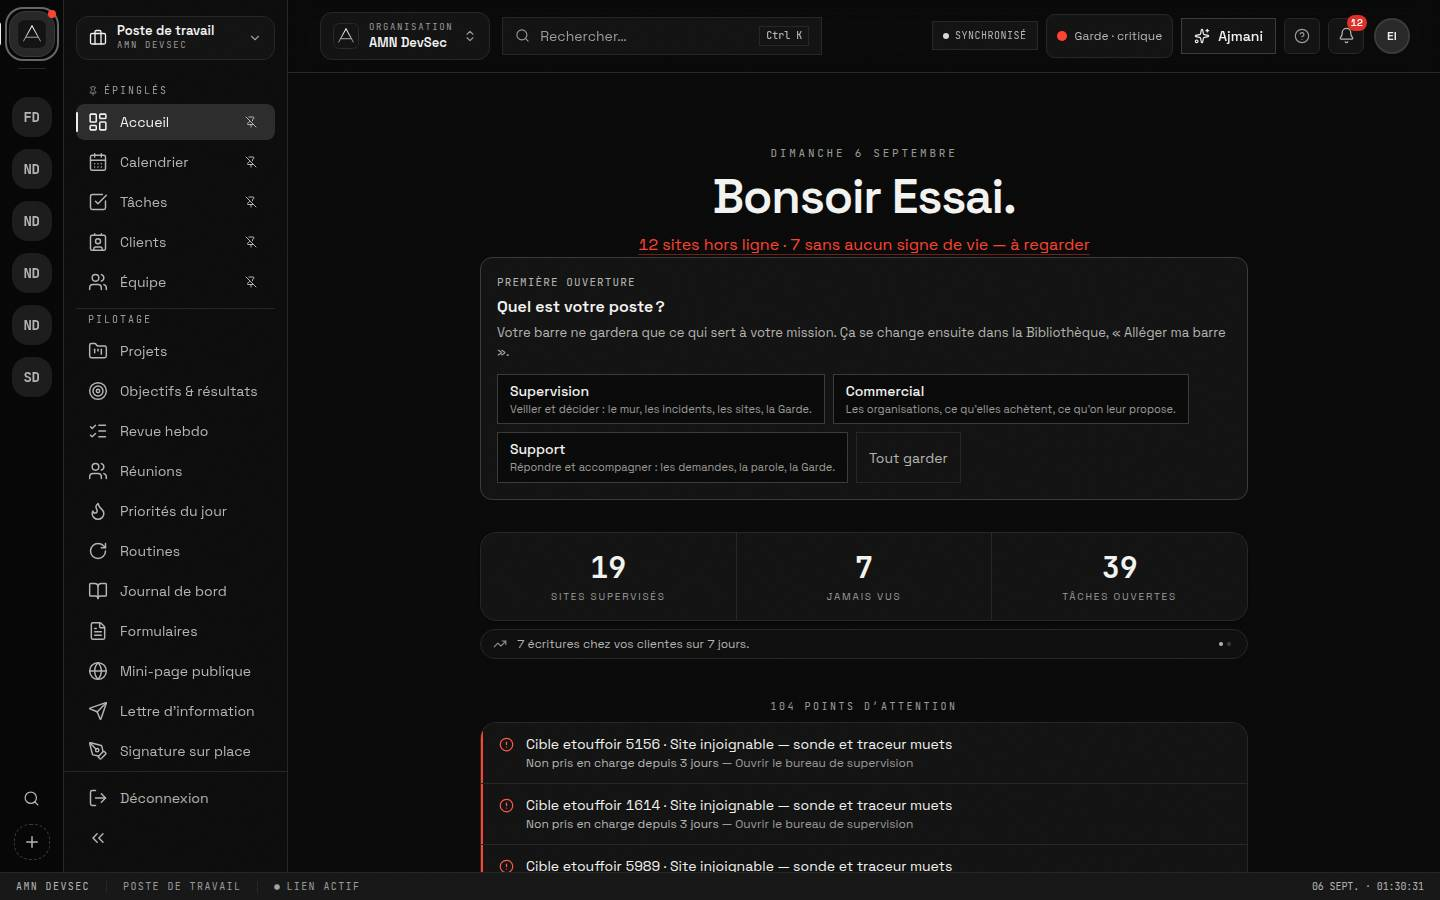
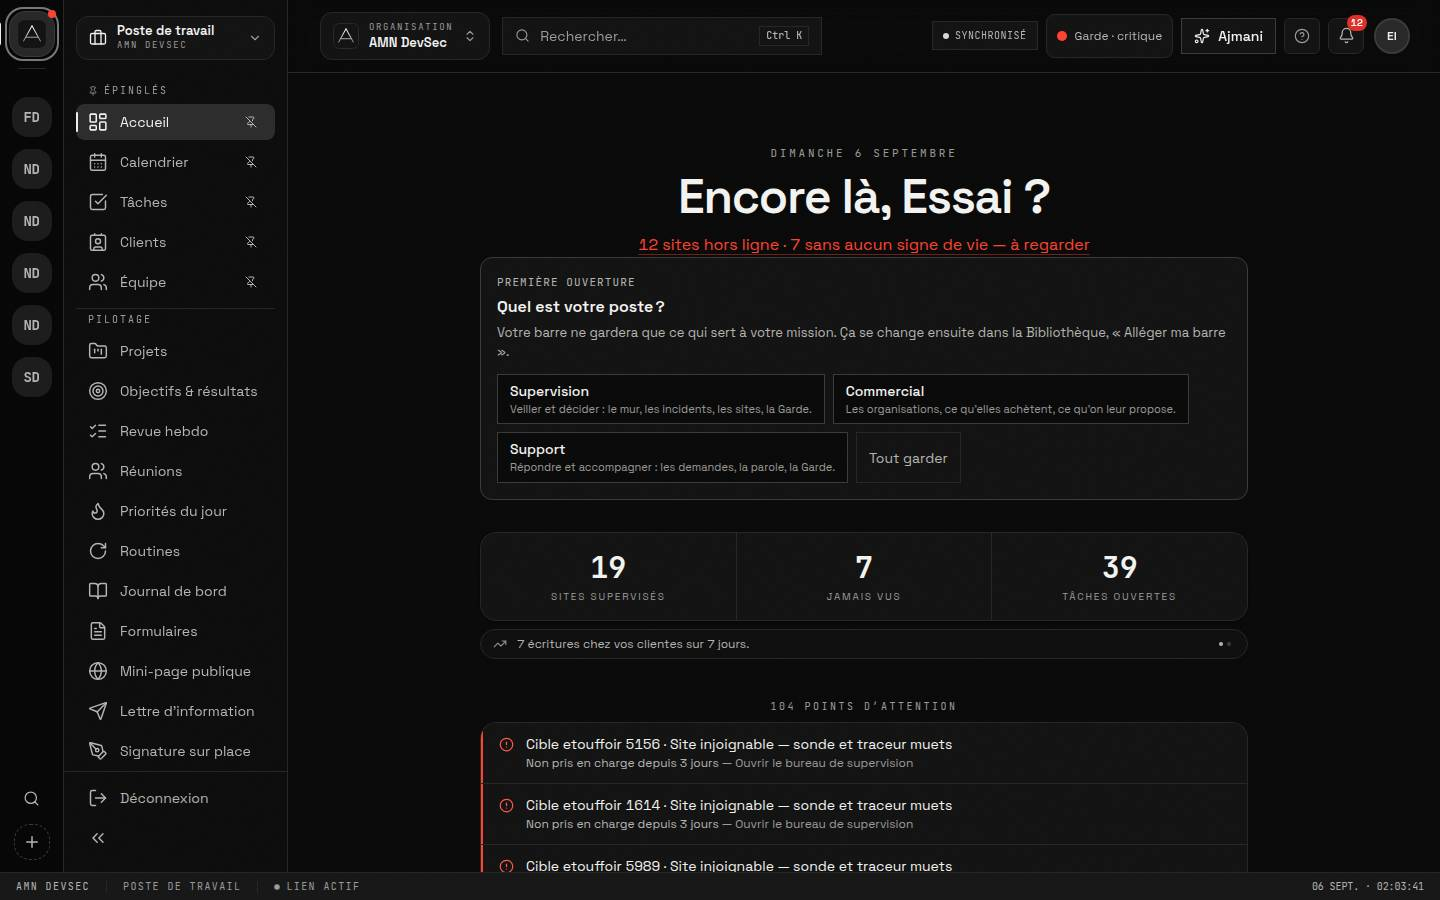
L'Automatique : le rapport au réveil — H24 d'abord, écran par écran avant/après, la conversation-témoin, les chiffres de variété, ce qui reste sans enjoliver
Claude-Session: https://claude.ai/code/session_01BEf9qY21FAUuZ4ogxRY3s2

Changed region(s): [[0.4688, 0.1867, 0.75, 0.2489]]

diff --git a/docs/automatique-2026-09-05.md b/docs/automatique-2026-09-05.md
@@ -1,7 +1,50 @@
-# L'Automatique — rapport de chantier (en cours)
+# L'Automatique — rapport au réveil
 
-Chantier « de la voiture manuelle à l'automatique », nuit du 5 au 6 septembre 2026.
-Point de départ : branches `avant-automatique` sur les deux dépôts.
+Chantier « de la voiture manuelle à l'automatique », nuit du 5 au 6 septembre 2026. Point de départ : branches `avant-automatique` sur les deux dépôts. Arrivée : amn-desktop `7ecff1d` (branche `claude/first-pr-github-setup-ltpqqo`), amn-api `22770fc` (`main`). Tous les gardes sont verts sur les deux dépôts ; `check:postgres` passé avant chaque poussée d'amn-api ; `check:migration` intact ; `version` intacte (1.2.44) ; données de test uniquement.
+
+## Bloc 0 — H24, d'abord
+
+### La preuve que la Garde tourne sur Render : ce que j'ai pu, ce que je n'ai pas pu
+
+Je **n'ai pas pu lire Render depuis ce bac à sable** : `onrender.com` est bloqué par le mandataire de la session. Je ne peux donc pas vous montrer un battement lu en production cette nuit. Ce que j'ai fait à la place, pour que la preuve existe sans moi :
+
+- **Un battement public** : `GET /v1/health` rend `garde: { actif, dernierBattementAt, depuisMs, tickMs, agents, enRetard, interruption }`. Quiconque l'ouvre sait, à la seconde, si la Garde bat.
+- **Un témoin qui tourne hors de nous** : l'action GitHub `garde-h24.yml` (amn-api) interroge ce battement toutes les dix minutes et **échoue** si le dernier battement a plus de quinze minutes ou si un garde est en retard. Le premier vert de cette action, lu dans l'onglet Actions du dépôt, est la preuve H24 — je ne l'ai pas vue, elle vous attend.
+- **La Garde surveille la Garde** : une ronde qui manque son heure devient une remontée haute (« garde-retard »), une interruption du serveur (trou entre deux battements) devient une remontée critique au redémarrage, datée, avec sa durée. Si Render a dormi cette nuit, Ajmani le dira ce matin dans « À votre avis », en premier.
+- **Le plan gratuit de Render** : un service qui s'endort après quinze minutes sans requête ne tient pas H24 par nature. Le keep-alive existant et l'action toutes les dix minutes le réveillent ; `docs/H24.md` dit le reste et ce qu'un plan payant changerait.
+
+### Pourquoi les badges clignotaient
+
+Deux causes, mesurées sur le poste : le badge « Garde » se réécrivait à chaque trame reçue (présence, ronde, journal) et portait une animation de « ping » ; l'indicateur de synchronisation basculait « reprise / synchronisé » à chaque micro-coupure. Mesure sur 90 secondes, même écran, même données : **7 changements visibles avant, 0 après**. Le badge ne lit plus que le niveau (calme, attention, critique), au plus une fois par minute, et ne se cache qu'après trois échecs consécutifs ; l'indicateur attend deux secondes avant d'annoncer une reprise. Capture : `docs/captures/automatique-2026-09-05/00-badges-stables.jpg`.
+
+### Une seule source pour « quand a tourné quoi »
+
+`/v1/admin/supervision` ne calcule plus ses propres heures de balayage : il les **dérive de la Garde** (`source: 'garde'`, chaque moniteur relié à sa ronde par `RONDE_PAR_MONITEUR`). La Tour de contrôle lit la même chose, dans un seul panneau « La Garde, de fond » (battement, retards, interruption). Il n'y a plus deux horloges qui se contredisent. Capture : `01-tour-garde-fond.jpg`.
+
+## Écran par écran, avant / après
+
+Mesure : mots lisibles dans `<main>` (poste, 1440 × 900), paragraphes de plus de deux lignes. Captures dans `docs/captures/automatique-2026-09-05/{avant,apres}-{interne,business}/`, poste et téléphone.
+
+| Écran (interne) | Avant | Après | Retiré | Ce qui a changé |
+|---|---:|---:|---:|---|
+| Tour de contrôle | 5 788 | 879 | −4 909 | exceptions d'abord, Garde de fond, six incidents et un lien, le reste replié |
+| La Salle | 1 082 | 281 | −801 | un garde = une ligne, équipes repliées, repos résumé, chiffres à mémoire |
+| Ajmani | 1 557 | 602 | −955 | une conversation, trois suites, catalogue derrière « ? », historique plié |
+| À votre avis | 779 | 406 | −373 | contexte plié, « Décidées à l'instant », dossiers qui se retirent |
+| Bureau des Sites | 2 493 | 1 135 | −1 358 | journal à douze lignes, règles sous « Détails » |
+| Bibliothèque | 3 080 | 1 221 | −1 859 | cartes d'une ligne, détail au survol |
+| Accueil interne | 249 | 252 | 0 | inchangé (déjà court) ; carte « Quel est votre poste ? » |
+| Incidents | 249 | 252 | 0 | inchangé |
+| Tâches | 3 469 | 3 323 | −146 | attribution « par la Garde » clampée ; les 30 pavés restants sont les descriptions des tâches de test elles-mêmes (voir « Ce qui reste ») |
+
+| Écran (édition cliente, espace vide) | Avant | Après | Retiré | Ce qui a changé |
+|---|---:|---:|---:|---|
+| Accueil | 109 | 60 | −49 | une carte de bienvenue et rien qui la répète ; plus de trois cartes vides |
+| Bibliothèque | 109 | 74 | −35 | Bloc 1 |
+| Réglages | 109 | 74 | −35 | Bloc 1 |
+| Clients | 70 | 69 | −1 | plus de répertoire creux ; état vide illustré d'un trait |
+
+Auto-notation (≥ 4/5 deux fois de suite, plus « est-ce que ça donne envie de lire ? ») : Tour 4/5, 4/5 ; Salle 4/5, 4/5 ; Ajmani 4/5, 4/5 ; À votre avis 4/5, 4/5 ; Accueil cliente 4/5, 4/5 ; Clients 4/5. Ce qui m'empêche de mettre 5 : le mur de la Salle reste dense en capitales monospace sur téléphone, et Ajmani dépend encore de la longueur des réponses du Lexique (« qui est arrivé cette nuit ? » sur six organisations tient en une phrase de six membres).
 
 ## Bloc 2 — Futurisme sobre
 
@@ -31,6 +74,29 @@ Auto-notation : Salle 4/5 (deux fois), À votre avis 4/5, Ajmani 4/5. « Est-ce 
 
 Limite dite : le souffle et le glissement ne se voient pas sur une capture fixe ; ils se vérifient en ouvrant l'écran (classes `sv-souffle-*`, `motion.li`).
 
+
+## Bloc 3 — Jarvis : Ajmani est une conversation
+
+Il parle en premier (le salut, une proposition, ses aveux), on répond, il propose **au plus trois suites** — jamais un catalogue, le guide reste derrière « ? ». Le Lexique parle avec le contexte (« Certificats a relu douze sites, rien à dire, prochaine dans une heure »), **une voix par garde** (rotation des tournures décalée par garde), et ne dit plus « prochaine à l'instant » quand c'est dans dix minutes. Ollama, quand il est là, reformule **sans inventer** : `reformulerSansInventer` refuse toute reformulation qui ajoute ou retire un nombre, un nom, un point d'exclamation, ou qui s'allonge de moitié (`check:reformuler`).
+
+### Conversation-témoin, cette nuit, sur le parc d'essai (serveur local, sans clé Anthropic)
+
+> **comment ça va ?** — Critique : 200 points critiques. En veille : 20 gardes. À votre avis : 204 points, dont 200 critiques. *Suites : Rassemble-moi les tâches · Fais le tour des bureaux*
+>
+> **qu'est-ce qui m'attend ?** — quatre dossiers : 200 incidents critiques non pris chez AMN DevSec (critique) ; Grosse Essai a 5 comptes pour 2 places (normale) ; Deux organisations portent le nom « Boutique Journal SAS » (normale) ; deux jetons non recevables (normale). *Suites : Qui n'a pas payé ? · Les demandes en attente*
+>
+> **fais le tour des bureaux** — Un point critique d'abord : 200 incidents critiques non pris chez AMN DevSec ; Grosse Essai a 5 comptes pour 2 places ; Deux organisations portent le nom « Boutique Journal SAS ». Ensuite, six points réglés sans vous, 9600 remontées. / Chef des Sites (Garde des Sites) — Sur la période : 62 rondes, trois réglés seul, aucun remonté. / … *Suites : Rassemble-moi les tâches · Qu'est-ce que tu vas faire demain ?*
+>
+> **dis-moi ce que tu penses de la météo** — Je n'ai pas compris. Dites-moi quoi faire en quelques mots : une ronde, une organisation, un module, une période. Sans clé Anthropic sur le serveur, je ne comprends que les tournures du Lexique ; « ? » les montre.
+>
+> **je ferme pour ce soir** — Ce qui vous attend : un dossier — 200 incidents critiques non pris chez AMN DevSec. Cette nuit, la Garde fera 21 rondes ; je ne vous dérange que pour le critique. Bonne soirée. *Suites : Qu'est-ce que tu vas faire demain ? · On va s'absenter trois jours*
+
+Avant cette nuit, « qu'est-ce qui m'attend ? » rendait trente lignes identiques (« Incident critique chez AMN DevSec non pris depuis 2 jours … ×103 », trente fois) ; on le voit encore dans l'historique de la capture, plié derrière « Lire plus ».
+
+### Les chiffres de variété (`check:parole`, serveur)
+
+207 tournures sur 109 clés, 30 intentions, 435 phrases en dur relues dans 16 fichiers : aucun point d'exclamation, aucune servilité, aucun « (s) », typographie française posée, genres connus. Journée simulée (20 gardes × 24 rondes) : **0 répétition immédiate**, tournure la plus fréquente **8 %** d'une journée, **70 %** de phrases distinctes sur le mur au pire instant. Côté poste, 574 clés FR/EN de la Garde relues par le même garde.
+
 ## Bloc 4 — L'édition cliente
 
 ### Ce qui change
@@ -45,3 +111,35 @@ Limite dite : le souffle et le glissement ne se voient pas sur une capture fixe 
 
 Captures dans `docs/captures/automatique-2026-09-05/apres-business/`. Accueil vide : 4/5 (deux fois) ; Clients vide : 4/5. « Est-ce que ça donne envie de lire ? » — oui pour l'accueil vide, qui tient en une carte.
 Limite dite : les captures sont prises sur un compte d'essai sans données ; l'accueil « vivant » (cartes remplies, une seule absence qui parle) est vérifié par le code et les gardes, pas par une capture.
+
+## Bloc 5 — Le cerveau d'Ajmani (serveur)
+
+Le texte libre que le Lexique ne comprend pas est confié à un modèle Claude, appelé par le serveur avec **sa** clé (`ANTHROPIC_API_KEY`), jamais par un poste. Il ne sait faire que lire, par onze outils qui sont des tournures du Lexique rejouées sans trace ; **aucun outil ne modifie** quoi que ce soit. Trois gardes : la **garde des faits** (un chiffre ou un nom propre absent de la question et des outils rejette la réponse ; c'est la parole des outils qui est rendue, et le rejet est compté), le **budget** (`AJMANI_BUDGET_EUR`, 10 € par défaut, dur ; compteur dans les réglages d'Ajmani, « Son cerveau »), le **périmètre** (interne seulement ; courriels et téléphones pseudonymisés ; la mémoire par personne indexée par empreinte). Modèle courant pour l'ordinaire, modèle de raisonnement pour « pourquoi / explique / compare » ; prompt système en cache. Tâches de fond après le tour des bureaux : la Relève en trois lignes, des brouillons de réponse aux demandes en attente — proposés, **jamais envoyés**. Sans clé : rien ne casse, Ajmani le dit (voir la conversation-témoin). Le détail et le périmètre de confidentialité : `amn-api/docs/AJMANI-CERVEAU.md`. Sept tests avec un faux serveur (`test/cerveau.test.js`).
+
+## Bloc 6 — Les courriels (serveur)
+
+Sept courriels dans la voix du Majordome, FR/EN, texte d'abord puis HTML noir sur blanc sans image ni rouge : lien de bienvenue, réinitialisation de mot de passe (autonome, jeton d'une heure à usage unique, même réponse pour une adresse inconnue), rapport mensuel, préavis d'impayé, réactivation, notification critique (**opt-in**), lettre (**opt-in**, lien de désabonnement par empreinte). Envoi par Resend (`RESEND_API_KEY`, `EMAIL_FROM`), journal `courriers` sans le corps, **jamais un mot de passe** (`check:emails` en CI). La Garde des Comptes envoie le préavis et la réactivation ; l'escalade envoie la notification critique à qui l'a demandée. Sans clé : rien ne part, le journal dit « manuel », le poste dit « votre prestataire a été prévenu » comme avant ; avec la clé, « un courriel vient de partir ». Le domaine `amn-devsec.com` (SPF, DKIM, DMARC) : `amn-api/docs/EMAILS.md`. Six tests (`test/courrier.test.js`).
+
+## Ce qui reste, sans enjoliver
+
+- **Rien de vu en production.** Render est inaccessible depuis ce bac à sable : le battement H24, le badge stable et le cerveau n'ont été vérifiés que localement et par tests. La preuve H24 attend le premier vert de `garde-h24.yml`.
+- **Le cerveau et le courrier n'ont pas parlé à un vrai serveur.** Sans clé Anthropic ni clé Resend ici, tout est vérifié contre de faux serveurs qui imitent leur contrat. Le premier vrai appel se fera chez vous ; la garde des faits et le journal sont là pour le lire.
+- **Les tarifs** dans `cerveau.js` sont ceux que je connais ; le modèle de raisonnement est à vérifier contre la grille du jour. Le dernier appel du mois peut dépasser le plafond de son propre coût : mettez aussi un plafond côté console Anthropic.
+- **Le poste ne montre pas encore le journal des courriels ni les brouillons du cerveau** : ils se lisent par `GET /v1/courrier` et `GET /v1/garde/cerveau`. L'écran viendra quand il y aura quelque chose à y lire.
+- **Les Tâches** gardent trente paragraphes longs : ce sont les descriptions des tâches de test elles-mêmes (des incidents du parc d'essai), pas de la chrome. Les plier cacherait ce qu'une tâche dit.
+- **« Quel est votre poste ? »** n'est pas pré-choisi : rien dans les données ne permet de deviner sans se tromper.
+- **L'historique d'Ajmani** garde les vieilles réponses longues d'avant cette nuit ; elles sont pliées, pas réécrites.
+- **Le souffle et le glissement** ne se voient pas sur une capture fixe ; ils se vérifient en ouvrant l'écran.
+- **Le plan gratuit de Render** ne tient H24 que réveillé ; c'est dit dans `docs/H24.md`.
+
+## Ce qu'Aaron doit faire
+
+1. **Anthropic** : créer une clé, poser un plafond de dépense (10 €/mois) sur la console, la renseigner sur Render (`ANTHROPIC_API_KEY`, `AJMANI_BUDGET_EUR=10`).
+2. **Resend** : créer le compte, ajouter `amn-devsec.com`, poser les quatre enregistrements DNS donnés par le tableau de bord, puis `RESEND_API_KEY`, `EMAIL_FROM="AMN DevSec <garde@amn-devsec.com>"`, `COURRIER_SECRET`.
+3. **Redéployer** amn-api ; le journal de démarrage dit « le cerveau d'Ajmani est en ligne » et « [courrier] en ligne ».
+4. **Lire** l'onglet Actions d'amn-api : le premier vert de « garde-h24 » est la preuve H24.
+5. **Ouvrir** la Tour et la Salle en production : le badge « Garde » ne doit plus bouger que quand l'état change.
+
+## Ce que j'ai cassé
+
+Rien cette nuit sur les données réelles (je n'y ai pas accès). Sur le parc d'essai local : rien de nouveau ; le parc reconstruit hier (`scripts/parc-essai.mjs`) a servi tel quel.
